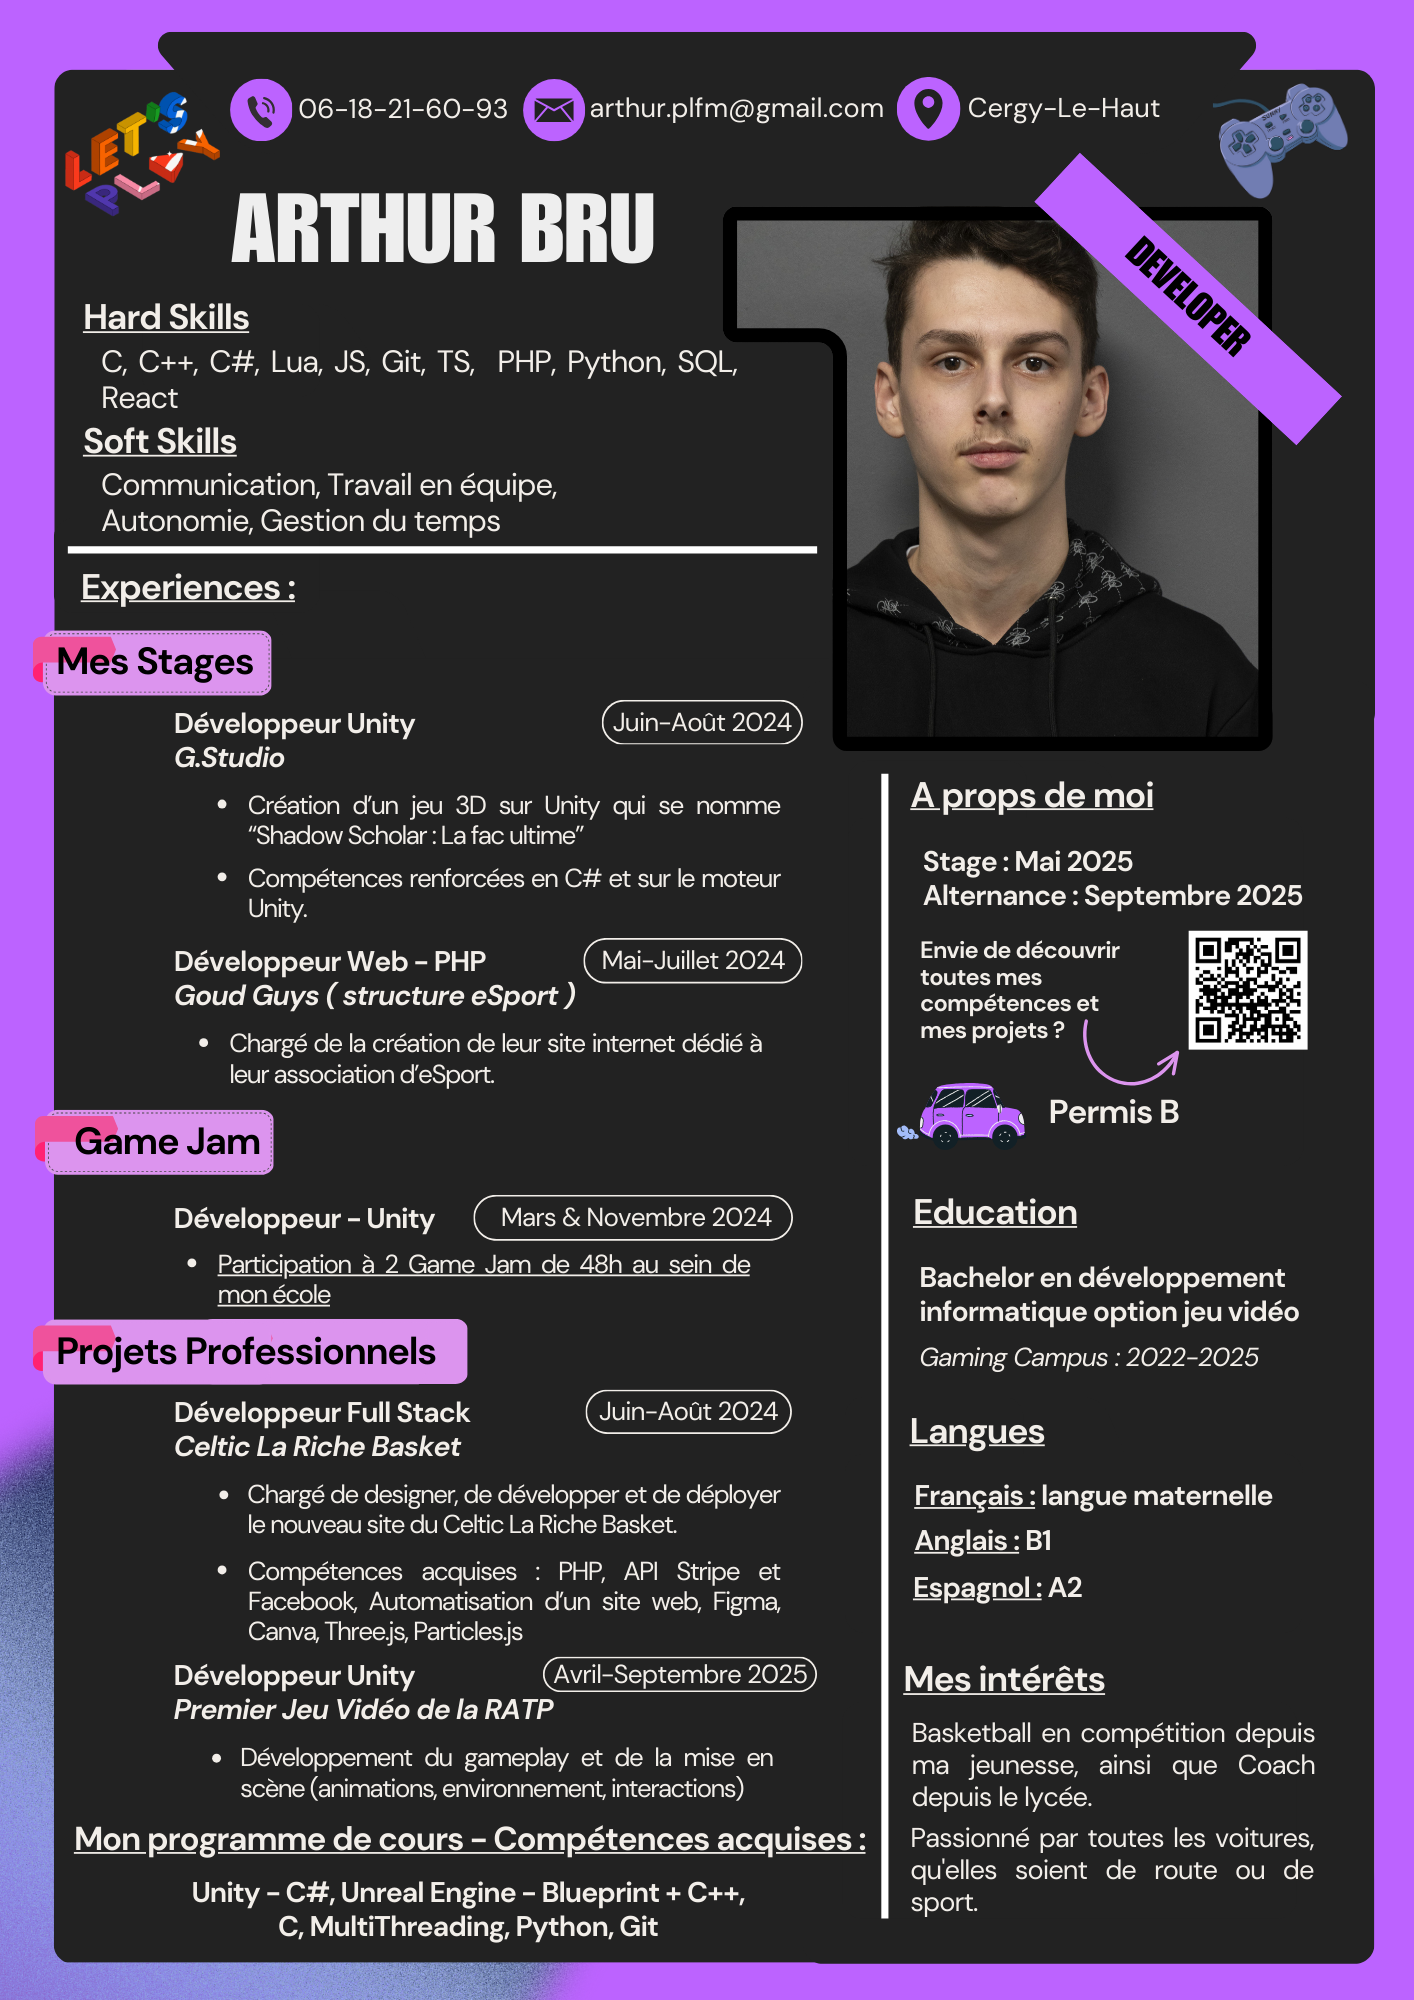
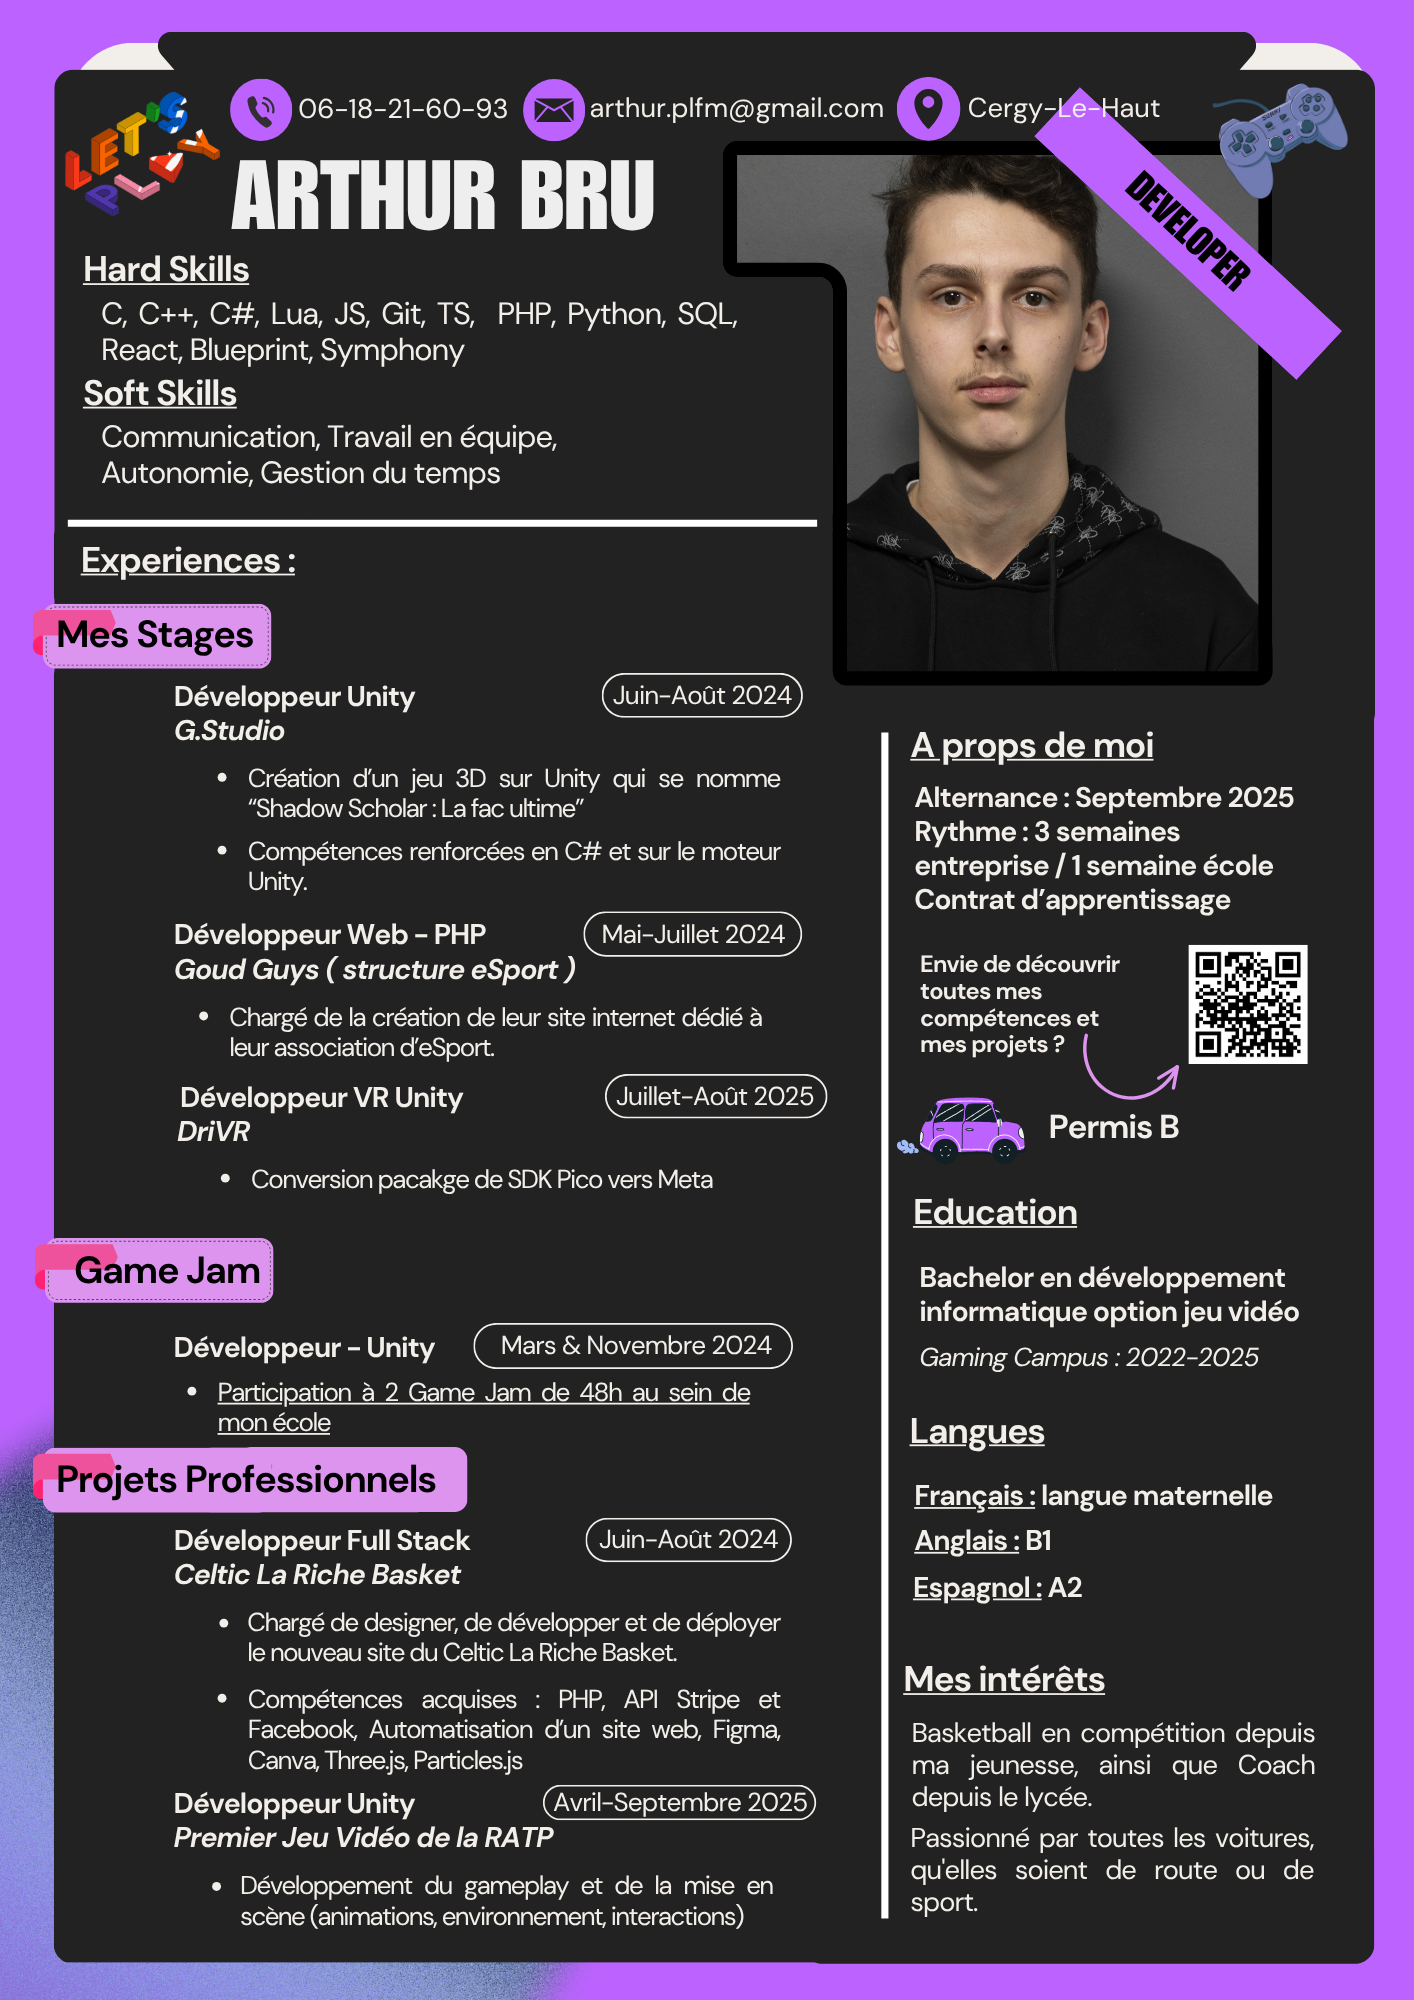
[UPDATE] CV & Skills

Changed region(s): [[0.0, 0.031, 0.9646, 0.992], [0.8713, 0.0, 0.9646, 0.062], [0.0622, 0.0, 0.1245, 0.062]]

diff --git a/src/Component/PopupLanguage.js b/src/Component/PopupLanguage.js
@@ -22,6 +22,7 @@ import imgUnityIcon from "../img/unityIcon.svg";
 import imgPythonIcon from "../img/pythonIcon.svg";
 import imgTypeScriptIcon from "../img/typescriptIcon.svg";
 import imgDevOpsLangage from "../img/DevOpsIcon.svg";
+import imgSymphonyLangage from "../img/SymphonyIcon.svg";
 
 // Traduction
 import { Loader } from "./ComponentTraduction";
@@ -169,6 +170,16 @@ const PopupMySqlT = ({ t }) => {
               }}
             ></p>
           </div>
+        </div>
+      </div>
+      <div className="rectangleTool" id="blur">
+        <div className="sizeIconCPlus fontsRegular">
+          <img
+            src={imgSymphonyLangage}
+            className="iconSpace"
+            alt="Symphony Langage Icon"
+          ></img>
+          {t("Home.Symphony")}
         </div>
       </div>
       <div className="rectangleTool" id="blur">
